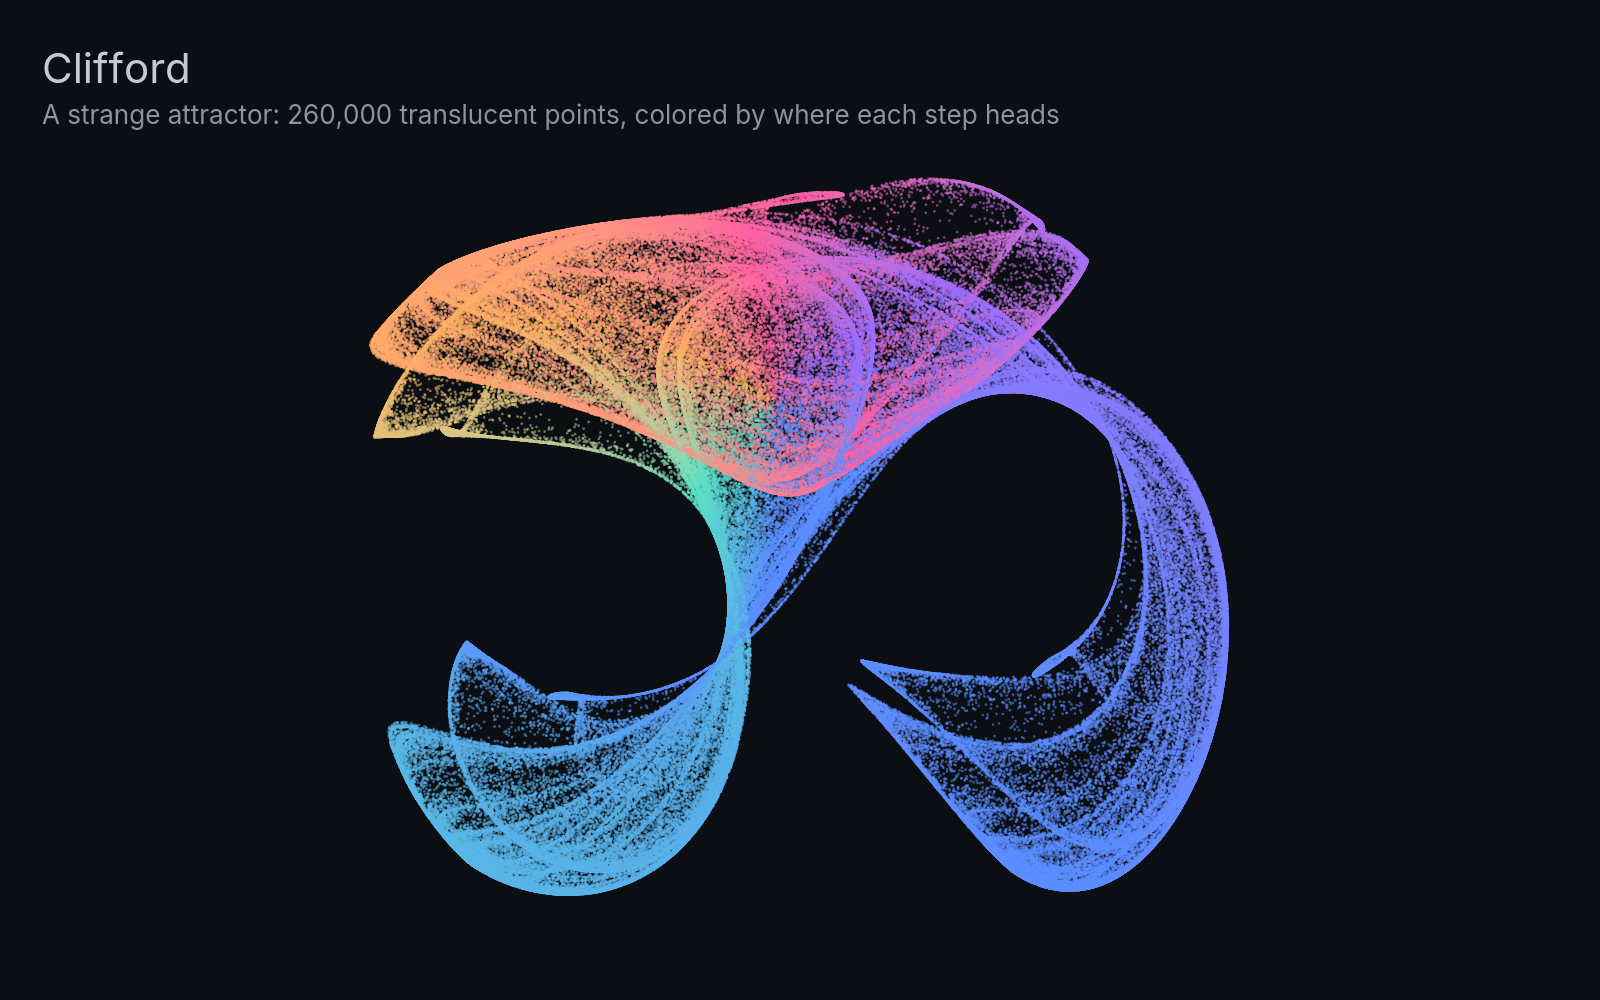
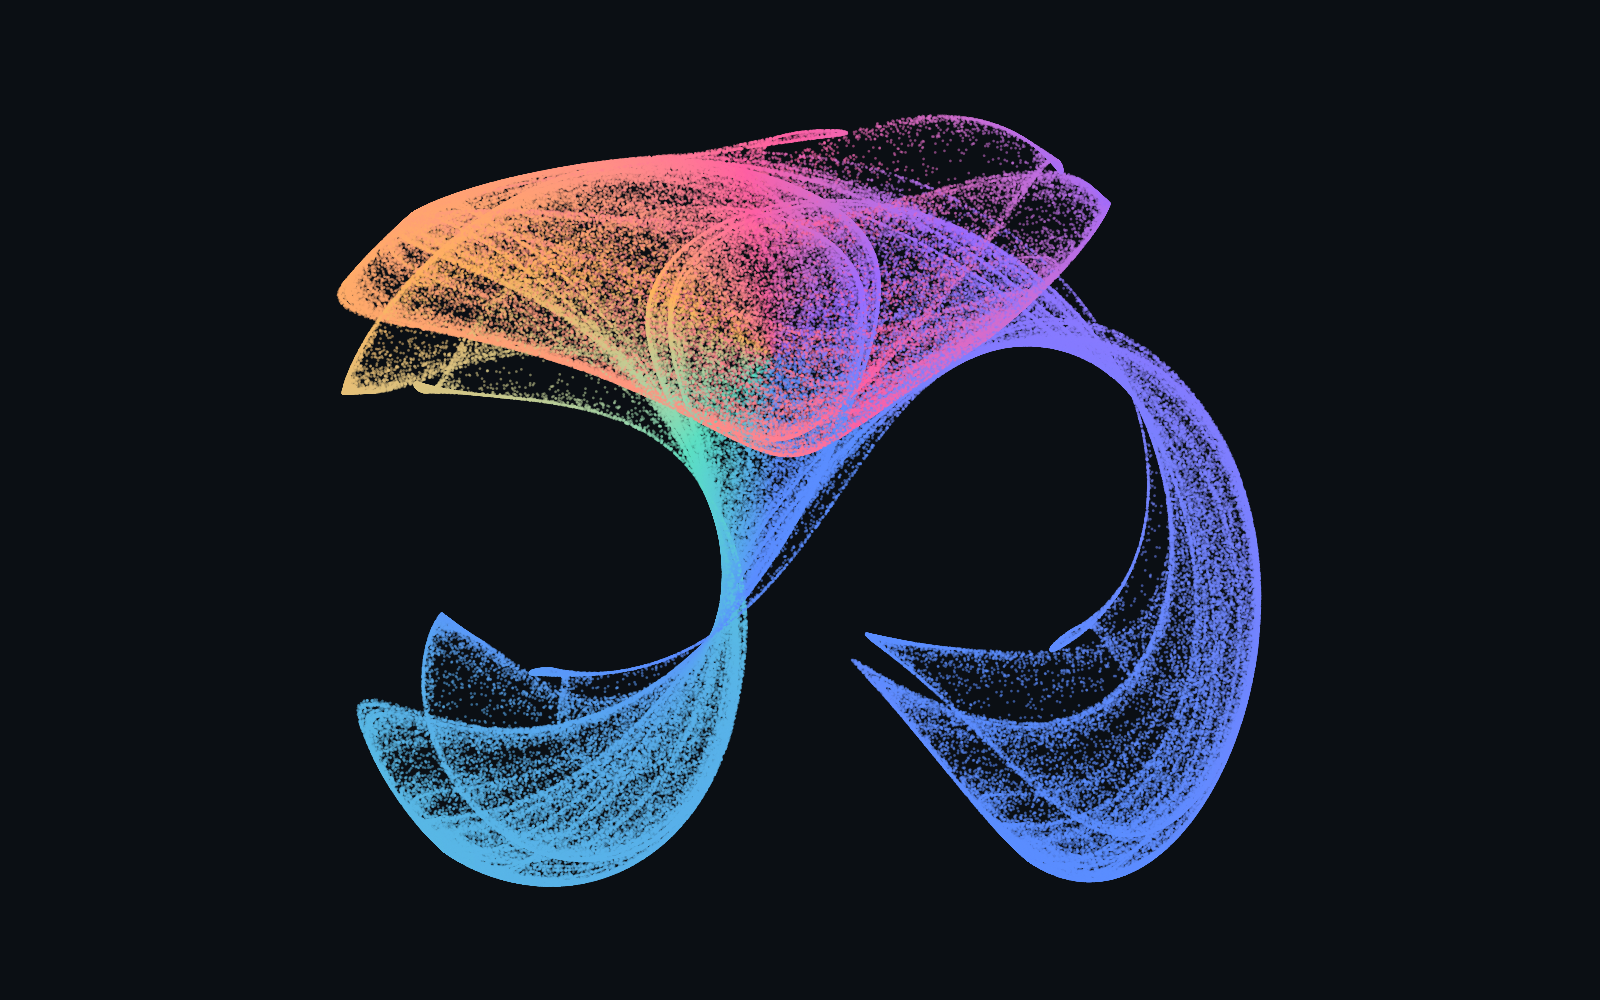
major rendering improve for docs

Changed region(s): [[0.0312, 0.031, 0.8125, 0.899]]

diff --git a/docs/gallery/flow.ts b/docs/gallery/flow.ts
@@ -1,0 +1,139 @@
+/**
+ * A DC power flow: each bus's voltage angle from what it injects, through branches weighted by
+ * their susceptance, and how the angles shift when one branch opens.
+ */
+
+/** Buses and the branches between them, each branch's reactance in per unit. */
+export interface Network {
+  readonly buses: number;
+  readonly from: Uint32Array;
+  readonly to: Uint32Array;
+  readonly reactance: Float32Array;
+}
+
+/** The smallest reactance a branch is taken to have, so none is infinitely stiff. */
+const STIFFEST = 1e-4;
+
+/** The network's susceptance matrix, row by row, and each bus's island. */
+class Susceptance {
+  readonly start: Uint32Array;
+  readonly column: Uint32Array;
+  readonly weight: Float64Array;
+  readonly diagonal: Float64Array;
+  readonly island: Uint32Array;
+  readonly net: Network;
+
+  constructor(net: Network) {
+    this.net = net;
+    const { buses, from, to } = net;
+    const degree = new Uint32Array(buses + 1);
+    for (let e = 0; e < from.length; e++) {
+      degree[from[e]! + 1]!++;
+      degree[to[e]! + 1]!++;
+    }
+    for (let b = 0; b < buses; b++) degree[b + 1]! += degree[b]!;
+    this.start = degree;
+    this.column = new Uint32Array(degree[buses]!);
+    this.weight = new Float64Array(degree[buses]!);
+    this.diagonal = new Float64Array(buses);
+    const fill = degree.slice(0, buses);
+    for (let e = 0; e < from.length; e++) {
+      const [a, c, w] = [from[e]!, to[e]!, this.susceptance(e)];
+      this.column[fill[a]!] = c;
+      this.weight[fill[a]!++] = w;
+      this.column[fill[c]!] = a;
+      this.weight[fill[c]!++] = w;
+      this.diagonal[a]! += w;
+      this.diagonal[c]! += w;
+    }
+    // Islands, so each balances on its own.
+    const root = Uint32Array.from({ length: buses }, (_, b) => b);
+    const find = (b: number): number => {
+      while (root[b] !== b) b = root[b] = root[root[b]!]!;
+      return b;
+    };
+    for (let e = 0; e < from.length; e++) root[find(from[e]!)] = find(to[e]!);
+    this.island = Uint32Array.from({ length: buses }, (_, b) => find(b));
+  }
+
+  /** A branch's susceptance: its reactance's inverse, series capacitors taken at their size. */
+  susceptance(e: number): number {
+    return 1 / Math.max(Math.abs(this.net.reactance[e]!), STIFFEST);
+  }
+
+  /** `B·v` into `out`. */
+  times(v: Float64Array, out: Float64Array): void {
+    for (let b = 0; b < v.length; b++) {
+      let sum = this.diagonal[b]! * v[b]!;
+      for (let k = this.start[b]!; k < this.start[b + 1]!; k++)
+        sum -= this.weight[k]! * v[this.column[k]!]!;
+      out[b] = sum;
+    }
+  }
+
+  /** `p` less its island's mean, so every island's injections sum to zero. */
+  balanced(p: Float64Array): Float64Array {
+    const sum = new Float64Array(p.length);
+    const count = new Float64Array(p.length);
+    for (let b = 0; b < p.length; b++) {
+      sum[this.island[b]!]! += p[b]!;
+      count[this.island[b]!]!++;
+    }
+    const mean = sum.map((s, i) => (count[i] ? s / count[i] : 0));
+    return p.map((v, b) => v - mean[this.island[b]!]!);
+  }
+
+  /** The angles `θ` with `B·θ = p`, by conjugate gradients with each bus's own scale. */
+  solve(injection: Float64Array, tolerance = 1e-10): Float64Array {
+    const n = injection.length;
+    const p = this.balanced(injection);
+    const theta = new Float64Array(n);
+    const scale = this.diagonal.map((v) => 1 / v);
+    const r = p.slice();
+    const z = r.map((v, b) => v * scale[b]!);
+    const d = z.slice();
+    const bd = new Float64Array(n);
+    const dot = (a: Float64Array, c: Float64Array) => {
+      let sum = 0;
+      for (let i = 0; i < n; i++) sum += a[i]! * c[i]!;
+      return sum;
+    };
+    let rz = dot(r, z);
+    const goal = tolerance * tolerance * dot(p, p);
+    for (let step = 0; step < 50 * n && dot(r, r) > goal; step++) {
+      this.times(d, bd);
+      const alpha = rz / dot(d, bd);
+      for (let b = 0; b < n; b++) {
+        theta[b]! += alpha * d[b]!;
+        r[b]! -= alpha * bd[b]!;
+        z[b] = r[b]! * scale[b]!;
+      }
+      const next = dot(r, z);
+      for (let b = 0; b < n; b++) d[b] = z[b]! + (next / rz) * d[b]!;
+      rz = next;
+    }
+    return theta;
+  }
+}
+
+/** Each bus's angle in radians, from its injection in per unit. */
+export function angles(net: Network, injection: Float64Array): Float64Array {
+  return new Susceptance(net).solve(injection);
+}
+
+/**
+ * How each bus's angle shifts when `branch` opens, from the angles before: the flow the branch
+ * carried moves onto the rest of the network as if injected at one end and drawn at the other.
+ */
+export function shifts(net: Network, theta: Float64Array, branch: number): Float64Array {
+  const b = new Susceptance(net);
+  const [i, j] = [net.from[branch]!, net.to[branch]!];
+  const unit = new Float64Array(net.buses);
+  unit[i] = 1;
+  unit[j] = -1;
+  const phi = b.solve(unit);
+  const w = b.susceptance(branch);
+  const flow = (theta[i]! - theta[j]!) * w;
+  const share = (phi[i]! - phi[j]!) * w;
+  return phi.map((v) => (v * flow) / (1 - share));
+}

diff --git a/docs/gallery/opening.ts b/docs/gallery/opening.ts
@@ -1,0 +1,120 @@
+/**
+ * A line opening: ACTIVSg70k as its Little Rock to Newark 765 kV line opens. A DC power flow of the
+ * whole grid finds where the line's power goes: the branches that pick it up glow amber, those it
+ * leaves glow blue, and the rest of the grid stays a quiet web.
+ */
+import { Patch, reference } from 'latkit/core';
+import { angles, shifts } from './flow.ts';
+import { levelOf, readCase } from './grids.ts';
+import { THEME, type Piece } from './look.ts';
+
+export default function opening(): Piece {
+  const c = readCase('activsg70k');
+  const [n, m] = [c.header.buses, c.header.branches];
+  const ends = c.array('branch.ends', Uint32Array);
+  const kv = c.array('bus.kv', Float32Array);
+  const number = c.array('bus.number', Uint32Array);
+  const load = c.array('bus.load', Float32Array);
+  const generation = c.array('bus.generation', Float32Array);
+  const net = {
+    buses: n,
+    from: Uint32Array.from({ length: m }, (_, e) => ends[2 * e]!),
+    to: Uint32Array.from({ length: m }, (_, e) => ends[2 * e + 1]!),
+    reactance: c.array('branch.reactance', Float32Array),
+  };
+  const [i, j] = [number.indexOf(59757), number.indexOf(59774)];
+  const line = net.from.findIndex(
+    (a, e) => (a === i && net.to[e] === j) || (a === j && net.to[e] === i),
+  );
+  // Injections on a 100 MVA base, so the angles come out in radians.
+  const theta = angles(
+    net,
+    Float64Array.from({ length: n }, (_, b) => (generation[b]! - load[b]!) / 100),
+  );
+  const shift = shifts(net, theta, line);
+  const mw = (e: number, angle: Float64Array) =>
+    ((angle[net.from[e]!]! - angle[net.to[e]!]!) * 100) /
+    Math.max(Math.abs(net.reactance[e]!), 1e-4);
+  // What each branch picks up once the line is open, in MW, compressed so a few MW still shows.
+  const gain = Float32Array.from({ length: m }, (_, e) => {
+    const before = mw(e, theta);
+    return Math.asinh((Math.abs(before + mw(e, shift)) - Math.abs(before)) / 4);
+  });
+  const level = Float32Array.from({ length: m }, (_, e) =>
+    levelOf(Math.max(kv[net.from[e]!]!, kv[net.to[e]!]!)),
+  );
+  const data = Patch.to('grid')
+    .replace(
+      'Bus',
+      { count: n },
+      {
+        x: Float64Array.from({ length: n }, (_, b) => c.positions[2 * b]!),
+        y: Float64Array.from({ length: n }, (_, b) => c.positions[2 * b + 1]!),
+      },
+    )
+    .replace(
+      'Branch',
+      { count: m },
+      {
+        from: reference('Bus', net.from),
+        to: reference('Bus', net.to),
+        gain,
+        change: Float32Array.from(gain, Math.abs),
+        // Wider by voltage, and by how much the branch's flow changed.
+        width: Float32Array.from(gain, (g, e) => 0.28 + 0.1 * level[e]! + 0.2 * Math.abs(g)),
+        open: Float32Array.from({ length: m }, (_, e) => (e === line ? 1 : 0)),
+      },
+    );
+  return {
+    name: 'opening',
+    alt: 'The ACTIVSg70k grid as one 765 kV line opens: branches that pick up its power glow amber, those it leaves glow blue, across a quiet web of 88,000 branches',
+    data: [data],
+    camera: { center: [-85.7, 36.4, 0], zoom: 4.28, pitch: 52, bearing: -16 },
+    scene: {
+      space: { plane: { grid: 'off' } },
+      ease: 0,
+      theme: THEME,
+      marks: [
+        { vertices: { of: ['grid', 'Bus'], position: ['x', 'y'], radius: 0, pick: false } },
+        {
+          edges: {
+            of: ['grid', 'Branch'],
+            ends: ['from', 'to'],
+            priority: 'change',
+            width: 'width',
+            color: {
+              colormap: {
+                kind: 'diverging',
+                colors: [
+                  '#a6dcff',
+                  '#4a9be0',
+                  '#2b5a7c',
+                  '#34495a',
+                  '#73502c',
+                  '#e09238',
+                  '#ffd98a',
+                ],
+              },
+              value: 'gain',
+              domain: [-6, 6],
+            },
+            visible: { op: 'eq', args: ['open', 0] },
+            pick: false,
+          },
+        },
+        {
+          edges: {
+            of: ['grid', 'Branch'],
+            ends: ['from', 'to'],
+            name: 'opened',
+            width: 2.4,
+            color: '#ffffff',
+            dash: true,
+            visible: { op: 'eq', args: ['open', 1] },
+            pick: false,
+          },
+        },
+      ],
+    },
+  };
+}

diff --git a/docs/gallery/look.ts b/docs/gallery/look.ts
@@ -18,21 +18,20 @@ export const THEME = {
 } as const;
 
 /**
- * A fit of `box`, a drawing's least and greatest x and y with y up, into the picture below its
- * title: the title's band above, an even margin around, the drawing centered in what is left.
+ * A fit of `box`, a drawing's least and greatest x and y with y up, into the picture: centered,
+ * with an even margin around.
  */
 export function framed([x0, y0, x1, y1]: readonly [number, number, number, number]): Fit {
   const aspect = SIZE[0] / SIZE[1];
-  const [margin, title] = [0.06, 0.14];
-  const height = Math.max(
-    (y1 - y0) / (1 - title - margin),
-    (x1 - x0) / ((1 - 2 * margin) * aspect),
-  );
+  const room = 1 - 2 * 0.07;
+  const height = Math.max((y1 - y0) / room, (x1 - x0) / (room * aspect));
   const width = height * aspect;
   const [cx, cy] = [(x0 + x1) / 2, (y0 + y1) / 2];
-  const bottom = cy - ((margin + 1 - title) / 2) * height;
   return {
-    bounds: { min: [cx - width / 2, bottom, 0], max: [cx + width / 2, bottom + height, 0] },
+    bounds: {
+      min: [cx - width / 2, cy - height / 2, 0],
+      max: [cx + width / 2, cy + height / 2, 0],
+    },
   };
 }
 

diff --git a/docs/gallery/globe.ts b/docs/gallery/globe.ts
@@ -143,7 +143,7 @@ export default function globe(): Piece {
       { name: 'coast', file: map('coastline') },
       { name: 'borders', file: map('countries') },
     ],
-    camera: { center: [16, 22], zoom: 2.12, pitch: 0, bearing: 0 },
+    camera: { center: [16, 20], zoom: 2.3, pitch: 0, bearing: 0 },
     elapsed: 3,
     scene: {
       space: {
@@ -154,8 +154,6 @@ export default function globe(): Piece {
         ...THEME,
         flow: { color: '#fff6e0e0', spacing: 9, length: 3.5, width: 2.6, units: true },
       },
-      title: 'Globe',
-      subtitle: `${routes.length} routes between ${CITIES.length} cities, along great circles`,
       marks: [
         { lines: { of: ['borders', 'lines'], width: 0.5, color: '#22384f' } },
         { lines: { of: ['coast', 'lines'], width: 0.8, color: '#3d6a8f' } },

diff --git a/docs/gallery/grids.ts b/docs/gallery/grids.ts
@@ -31,6 +31,8 @@ export interface Case {
   readonly positions: Float32Array;
   /** Each machine's bus row. */
   readonly machineBus: Uint32Array;
+  /** One of the case's arrays by name, such as `branch.reactance`. */
+  readonly array: <T>(name: string, of: new (b: ArrayBuffer, o: number, l: number) => T) => T;
 }
 
 /** A voltage level: 0 below 100 kV, then 115–161, 230, 345, 500, and 765 kV. */
@@ -121,5 +123,5 @@ export function readCase(id: string): Case {
     for (let f = 0; f < header.frames; f++)
       patch.append(f * header.dt, 'Machine', { speed: speeds.subarray(f * g, (f + 1) * g) });
   }
-  return { name: header.case, header, patch, positions: position, machineBus };
+  return { name: header.case, header, patch, positions: position, machineBus, array };
 }

diff --git a/docs/gallery/render.ts b/docs/gallery/render.ts
@@ -1,7 +1,7 @@
 /**
  * The documentation's gallery, drawn by latkit. Each piece writes its datasets with `Patch`, as
  * latkit's bytes, and its scene as a typed `Scene`; the `latkit` command line draws it into
- * `docs/images/NAME.png`, titles and all, with nothing done to the picture after.
+ * `docs/images/NAME.png`, with nothing done to the picture after.
  *
  *   cargo build --locked -p latkit-cli --profile cli
  *   cargo xtask wasm                  # the package `latkit/core` comes from
@@ -15,6 +15,7 @@ import { SCALE, SIZE, type Piece } from './look.ts';
 
 /** Every piece, in the gallery's order. */
 export const PIECES = [
+  'opening',
   'grid',
   'texas',
   'frequency',

diff --git a/docs/gallery/grid.ts b/docs/gallery/grid.ts
@@ -42,8 +42,6 @@ export default function grid(): Piece {
       space: { earth: { projection: 'mercator', graticule: false, surface: THEME.background } },
       ease: 0,
       theme: THEME,
-      title: c.name,
-      subtitle: `${c.header.buses.toLocaleString('en-US')} buses and ${c.header.branches.toLocaleString('en-US')} branches of a synthetic grid, by voltage`,
       marks: [
         ...states(),
         { vertices: { of: ['grid', 'Bus'], position: ['lon', 'lat'], radius: 0, pick: false } },

diff --git a/docs/gallery/helios.ts b/docs/gallery/helios.ts
@@ -53,8 +53,6 @@ export default function helios(): Piece {
       space: { plane: { grid: 'off' } },
       ease: 0,
       theme: { ...THEME, flow: { color: '#d9fff0a0', spacing: 100 } },
-      title: 'Helios',
-      subtitle: '480 buses and 896 branches, power flowing along them',
       marks: [
         { edges: { of: ['art', 'Branch'], ends: ['from', 'to'], width: 0.85, flow: 18 } },
         {

diff --git a/docs/gallery/texas.ts b/docs/gallery/texas.ts
@@ -18,8 +18,6 @@ export default function texas(): Piece {
         ...THEME,
         flow: { color: '#fff4dcd0', spacing: 0.9, length: 0.35, width: 3, units: true },
       },
-      title: c.name,
-      subtitle: `${c.header.buses.toLocaleString('en-US')} buses of a synthetic Texas grid: generators by output, comets along its backbone`,
       marks: [
         ...states('#2c3e54'),
         {

diff --git a/docs/gallery/diagram.ts b/docs/gallery/diagram.ts
@@ -173,8 +173,6 @@ export default function diagram(): Piece {
       layout: { layered: { flow: 'right', gap: 30, rankGap: 70 } },
       ease: 0,
       theme: { ...THEME, flow: { color: '#7cc4ffd0' } },
-      title: 'Diagram',
-      subtitle: `${blocks.length} blocks in nested groups, ${signals.length} signals routed port to port, laid out by latkit`,
       marks,
     },
   };

diff --git a/docs/gallery/frequency.ts b/docs/gallery/frequency.ts
@@ -22,8 +22,6 @@ export default function frequency(): Piece {
       space: { plot: { x: { label: 'Time (s)' }, y: { label: 'Speed (mHz from 60 Hz)' } } },
       ease: 0,
       theme: THEME,
-      title: c.name,
-      subtitle: `${machines} machines swinging after a fault at ${fault.on} s, brighter the nearer it`,
       marks: [
         {
           lines: {

diff --git a/docs/gallery/currents.ts b/docs/gallery/currents.ts
@@ -69,8 +69,6 @@ export default function currents(): Piece {
       space: { plane: { grid: 'off' } },
       ease: 0,
       theme: THEME,
-      title: 'Currents',
-      subtitle: `${geometry.length.toLocaleString('en-US')} streamlines through a field of seven vortices, colored by speed`,
       marks: [
         {
           lines: {
